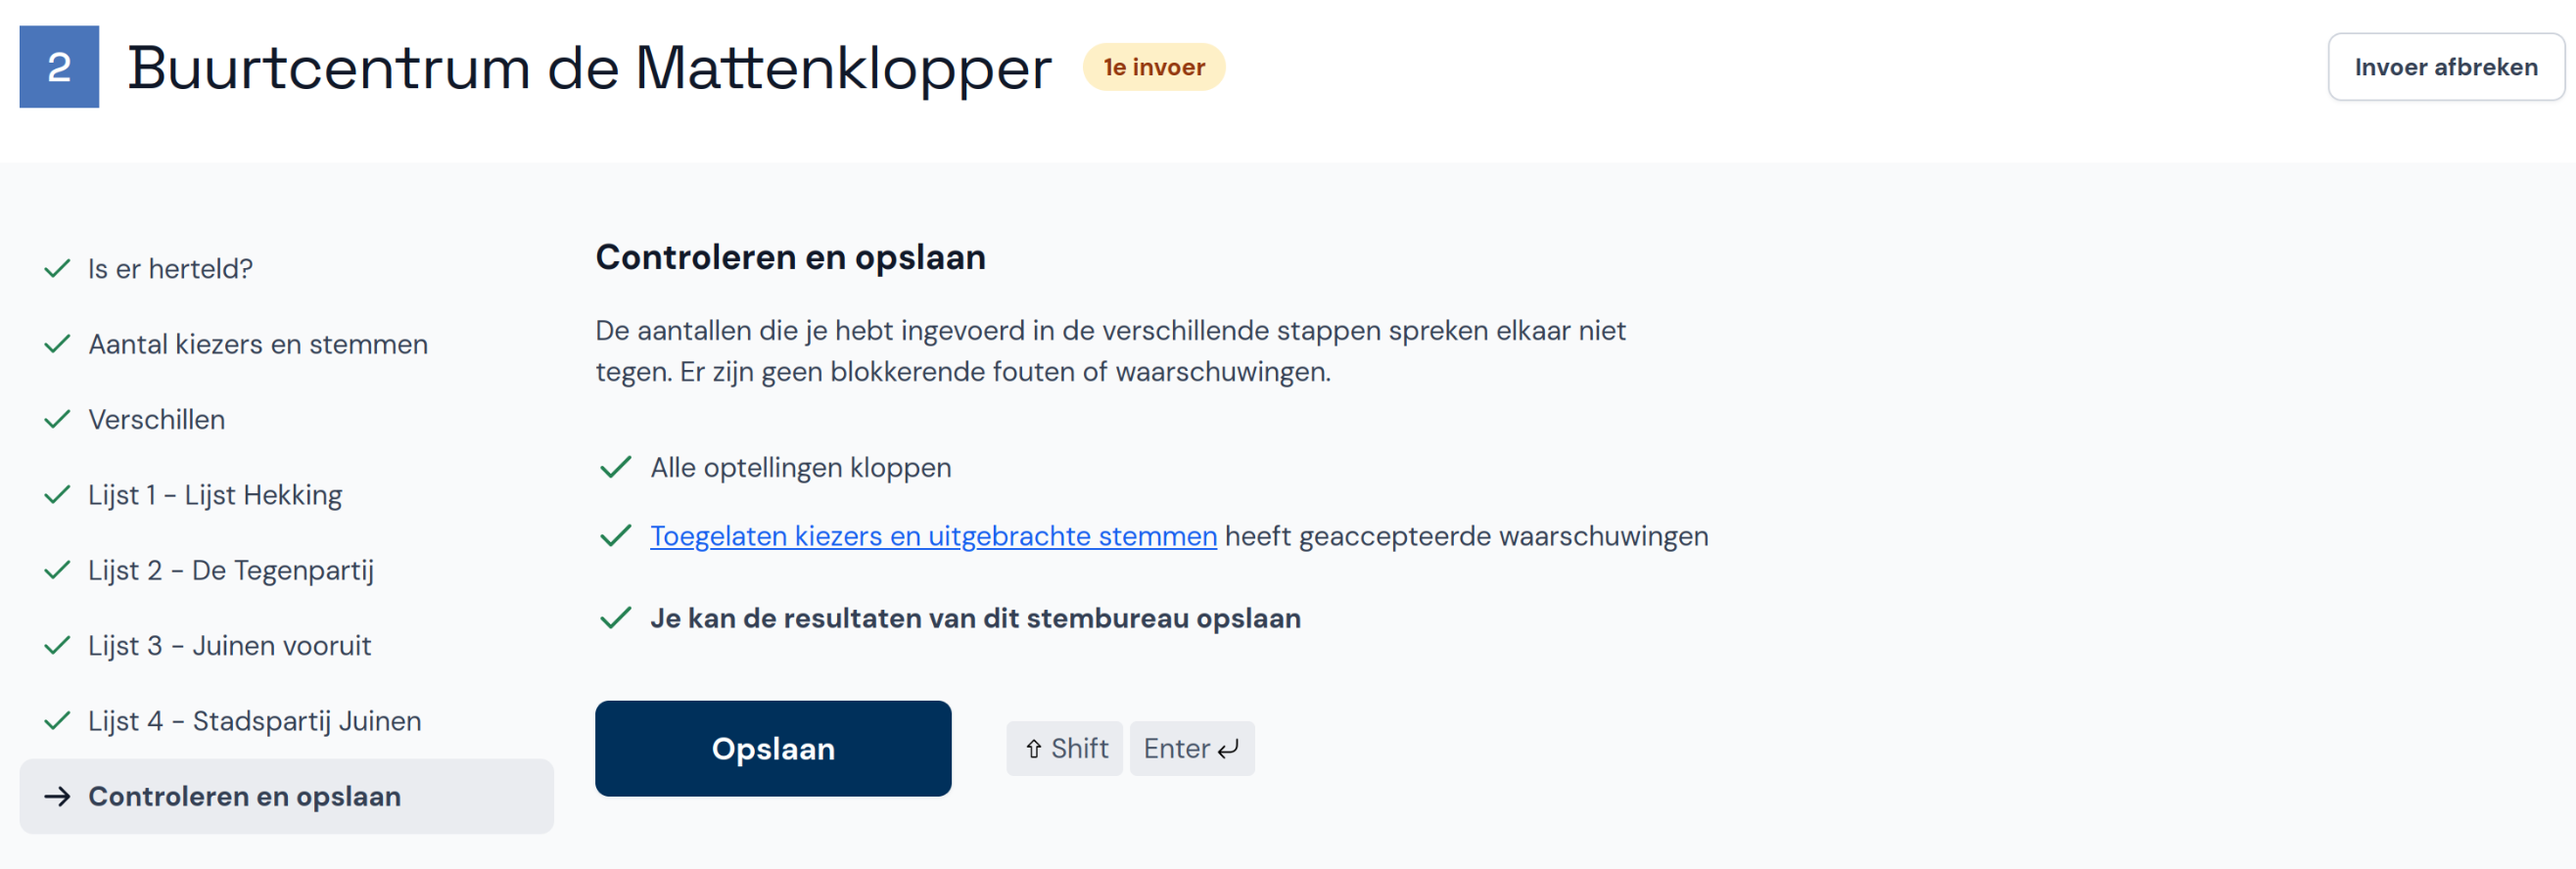
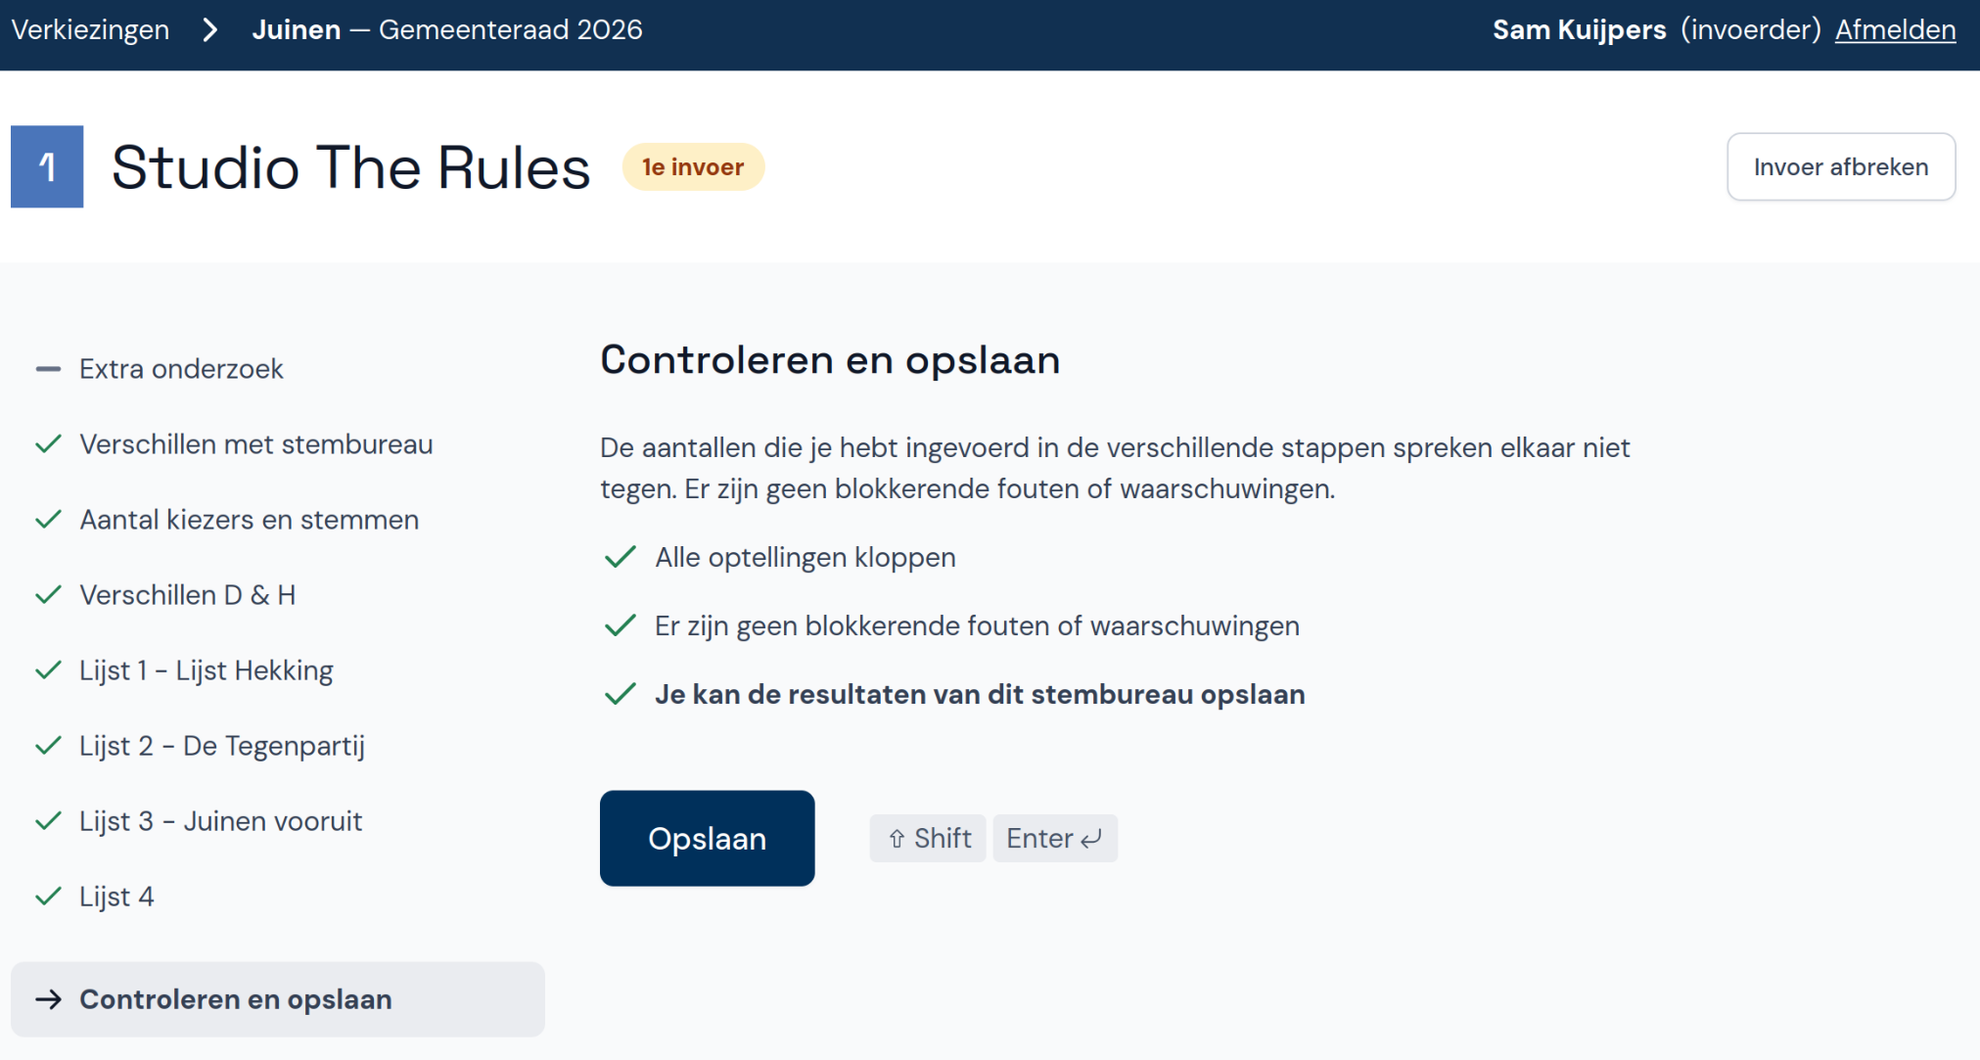
Invoeren: nieuwe modellen en tweede invoer (#12)

diff --git a/src/instructies-invoerder.md b/src/instructies-invoerder.md
@@ -6,101 +6,82 @@ Na het tellen van de stemmen wordt voor elk stembureau een proces-verbaal ingevu
 
 Elk stembureau wordt twee keer ingevoerd (door twee verschillende invoerders). De tweede invoerder krijgt een waarschuwing als diens invoer afwijkt van de eerste invoerder. Ook hier geldt dat je de instructies volgt of overlegt met je coördinator. Na de tweede invoer controleert Abacus of de eerste en tweede invoer overeenkomen. Als alles klopt is de invoer van het betreffende stembureau compleet.
 
-## Inloggen en account instellen
+## 1. Inloggen en account instellen
 
-Je krijgt inloginstructies van je coördinator. Klik rechtsboven op **Inloggen** en vul de gegevens in. Als je al eerder ingelogd hebt, gebruik je het door jou ingestelde wachtwoord.
+Je krijgt inloginstructies van je coördinator. Vul de gegevens in en klik op **Inloggen**. Als je al eerder ingelogd hebt, gebruik je het door jou ingestelde wachtwoord.
 
 Wanneer je voor de eerste keer inlogt, stel je je account eerst in voor gebruik. Voer je naam in als er nog geen naam staat, of wijzig je naam als die onjuist is. Kies vervolgens een nieuw wachtwoord en vul dit twee keer in.
 
 ![Account instellen](./img/invoeren-account-instellen.png)
 
-## Invoeren
+## 2. Stembureau invoeren
 
-Nu je bent ingelogd, ben je klaar om de resultaten van een stembureau in te voeren.
+In de volgende stappen lees je hoe je een stembureau invoert. Gebruik hierbij de [cheatsheet](cheatsheet.md) met daarin de volgende informatie:
 
-### Navigeren en pauzeren
+- [Hoe je kunt invoeren en welke sneltoetsen je gebruikt](cheatsheet.md#invoeren-en-sneltoetsen)
+- [Wat je moet doen bij waarschuwingen en fouten](cheatsheet.md#waarschuwingen-en-fouten)
+- [Hoe je een tweede invoer afrondt](cheatsheet.md#tweede-invoer)
+- [Hoe je de invoer kunt pauzeren of onderbreken](cheatsheet.md#pauzeren-of-onderbreken)
 
-Je kunt in Abacus een aantal sneltoetsen gebruiken waarmee je handig naar andere velden nagiveert. Dit zijn de sneltoetsen:
+ **Let op:** je mag het papieren proces-verbaal niet aanpassen, ook niet als je fouten ziet. In dat geval neem je de foute invoer over zoals het op het papier staat.
 
-- Met `tab ↹`, `pijl omlaag ↓` of `enter ⏎` ga je naar het volgende veld.
-- Met `shift ⇧`+`tab ↹` of `pijl omhoog ↑` ga je naar het vorige veld.
-- Met `shift ⇧`+`pijl omlaag ↓` ga je naar het laatste veld op de pagina. Dit is handig als je geen aantallen meer hoeft in te vullen bij kandidaten en direct het totaal wilt invullen.
-- Met `shift ⇧`+`enter ⏎` ga je naar de volgende pagina/lijst.
+### 2.1. Verkiezing en stembureau selecteren
 
-**Let op:** Je hoeft geen nullen in te voeren. Als je een veld leeg laat, wordt dat gezien als een nul. Je kunt direct met `tab ↹` naar het volgende veld gaan.
-
-Als je even pauze wilt, klik dan rechtsboven op **Invoer afbreken** en vervolgens op **Invoer bewaren**. Na je pauze klik je onder **Je hebt nog een openstaande invoer** op het stembureau en kun je doorgaan waar je gebleven was.
-
-### Verkiezing selecteren
-
-Selecteer je eerst de verkiezing waarvoor je stemmen wilt invoeren. Meestal staat er maar één verkiezing in deze lijst. Zie je twee of meer verkiezingen en weet je niet welke je moet kiezen, vraag het dan aan je coördinator. Hier zie je ook wat de status van de verkiezing is.
+Selecteer eerst de verkiezing waarvoor je stemmen wilt invoeren. Hier zie je ook wat de status van de verkiezing is.
 
 ![Verkiezing selecteren](./img/invoeren-verkiezing-selecteren.png)
 
-### Stembureau invoeren of selecteren
+Selecteer nu het stembureau:
 
-Voer vervolgens het nummer in van het stembureau dat je wilt invoeren. Het nummer vind je op het proces-verbaal. Weet je het nummer niet, klik dan onderaan de pagina op **Bekijk de lijst met alle stembureaus** en kies vervolgens het juiste stembureau op basis van de naam.
+- Voer het nummer in van het stembureau dat je wilt invoeren. Het nummer vind je op het proces-verbaal.
+- Weet je het nummer niet, klik dan onderaan de pagina op **Toon de lijst met nog in te vullen stembureaus** en kies vervolgens het juiste stembureau.
 
-![Stembureaunummer invoeren](./img/invoeren-stembureaunummer-invoeren.png)
+![Stembureau kiezen](./img/invoeren-stembureau-kiezen.png)
 
-![Verkiezing selecteren](./img/invoeren-kies-stembureau.png)
+### 2.2. Extra onderzoek
 
-### Is er herteld?
+Op pagina 1 van het papieren formulier is aangegeven of er extra onderzoek is uitgevoerd.
 
-Geef eerst aan of er op basis van een onverklaard verschil tussen het aantal toegelaten kiezers en het aantal uitgebrachte stemmen een hertelling is geweest. Als dit zo is, kun je op het proces-verbaal zien dat het vakje direct onder de locatie van het stembureau is aangevinkt. Kies vervolgens **Ja, er was een hertelling** of **Nee, er was geen hertelling**.
+Neem de vinkjes over zoals ze in het proces-verbaal staan en klik op **Volgende**.
 
-![Was er een hertelling?](./img/invoeren-hertelling-ja-nee.png)
+![Extra onderzoek](./img/invoeren-extra-onderzoek.png)
 
-### Aantal kiezers en stemmen
+Als de vragen op het papier niet zijn ingevuld, dan is er geen extra onderzoek uitgevoerd en kun je direct doorgaan naar de volgende pagina.
 
-Op deze pagina voer je het aantal toegelaten kiezers en uitgebrachte stemmen in. Neem de aantallen over van de velden A tot en met H. Deze velden vind je in rubriek 1 en 2 op het proces-verbaal.
+### 2.3. Verschillen met stembureau
 
-**Hertelling:** als je op de vorige pagina hebt aangegeven dat er een hertelling is geweest, neem je ook de cijfers over van de velden A.2 tot en met D.2. Deze velden vind je in rubriek 3 op het proces-verbaal.
+Op pagina 2 van het papieren formulier is aangegeven of er verschillen zijn met de telresultaten van het stembureau.
 
-Nadat je de velden hebt ingevuld, klik je op **Volgende**.
+Neem de vinkjes over zoals ze in het proces-verbaal staan en klik op **Volgende**.
 
-**Let op:** Het is mogelijk dat je nu een of meerdere waarschuwingen ziet omdat er een onverwachte afwijking is. Controleer dan of je het papieren proces-verbaal goed hebt overgenomen. Als alles klopt, vink je de optie **Ik heb de aantallen gecontroleerd met het papier en correct overgenomen** aan en klik je nogmaals op **Volgende**.
+![Verschillen met stembureau](./img/invoeren-verschillen-stembureau.png)
 
-![Waarschuwingen bij Toegelaten kiezers en uitgebrachte stemmen](./img/invoeren-kiezers-stemmen-waarschuwingen.png)
+### 2.4. Aantal kiezers en stemmen
 
-### Verschillen
+Nu voer je de toegelaten kiezers en uitgebrachte stemmen in. Dit zijn de velden A tot en met H in rubriek B1 - 3.1 en 3.2 op pagina 4 en 5 van het papieren formulier.
 
-In rubriek 3 op het procesverbaal is aangegeven of er verschillen zijn tussen het aantal toegelaten kiezers en het aantal uitgebrachte stemmen, en wat de verklaringen hiervoor zijn. Neem de aantallen uit het proces-verbaal over in de velden I tot en met O.
+Neem de cijfers over zoals ze in het proces-verbaal staan en klik op **Volgende**.
 
-**Let op:** op het proces-verbaal zijn deze velden niet voorzien van letters. Kijk dus goed of je de cijfers juist overneemt.
+![Toegelaten kiezers en uitgebrachte stemmen](./img/invoeren-kiezers-stemmen.png)
 
-![Verschillen tussen toegelaten kiezers en uitgebrachte stemmen](./img/invoeren-verschillen.png)
+### 2.5. Verschillen D & H
 
-### Lijsten
+Op pagina 6 van het papieren formulier is aangegeven of er verschillen zijn tussen het aantal kiezers en het aantal uitgebrachte stemmen.
 
-Nu ga je invoeren hoeveel stemmen zijn geteld voor elke kandidaat op elke lijst.
+Neem de vinkjes en cijfers over zoals ze in het proces-verbaal staan en klik op **Volgende**.
 
-Neem de cijfers over zoals ze in het proces-verbaal staan. Lege velden en velden met een nul op het proces-verbaal kun je ook leeglaten in Abacus.
+![Verschillen tussen toegelaten kiezers en uitgebrachte stemmen](./img/invoeren-verschillen-dh.png)
 
-**Let op:** Op het proces-verbaal staan ook velden voor het subtotaal van elke kolom. Deze kun je negeren.
+### 2.6. Lijsten
 
-Als je bij de kandidaten alle aantallen hebt ingevuld en je tot het totaal alleen maar lege velden ziet, ga je met `shift ⇧`+`pijl omlaag ↓` direct naar het invoerveld voor het totaal.
-
-Als je klaar bent met het invoeren van de lijst, klik je op **Volgende** of druk je op `shift ⇧`+`enter ⏎` om naar de volgende lijst te gaan.
-
-**Let op:** Er kan een foutmelding worden weergegeven als de aantallen niet met elkaar kloppen. Controleer of je de aantallen goed hebt overgenomen. Als de aantallen overeenkomen met het proces-verbaal en je de fout nog steeds ziet, overleg dan met je coördinator.
+Nu ga je invoeren hoeveel stemmen zijn geteld voor elke kandidaat op elke lijst. Neem de cijfers over zoals ze in het proces-verbaal staan. Hierbij gebruik je de sneltoetsen en instructies in de [cheatsheet](cheatsheet.md#invoeren-en-sneltoetsen).
 
 ![Lijst invoeren](./img/invoeren-lijst.png)
 
-### Controleren en opslaan
+### 2.7. Controleren en opslaan
 
-Wanneer je de laatste lijst hebt ingevoerd, klik je op **Volgende**. De invoer wordt nu gecontroleerd en je ziet of er geaccepteerde waarschuwingen zijn. Klik nu op **Opslaan**.
-
-Als je nog een stembureau wilt invoeren, kun je direct een ander stembureaunummer invullen of een stembureau uit de lijst kiezen.
+Wanneer je de laatste lijst hebt ingevoerd, klik je op **Volgende**. De invoer wordt nu gecontroleerd en je ziet of er waarschuwingen zijn. Klik nu op **Opslaan**.
 
 ![Controleren en opslaan](./img/invoeren-controleren-opslaan.png)
 
-## Invoer afbreken
-
-Het kan zijn dat je even pauze wilt nemen of de invoer om een andere reden wilt onderbreken. Je kunt ook de invoer weggooien om eventueel opnieuw te beginnen.
-
-Klik op **Invoer afbreken**. In een popup wordt gevraagd of je de invoer wilt bewaren. Als je later wilt doorgaan met invoeren, klik je op **Invoer bewaren**. Wil je de invoer weggooien, klik dan op **Niet bewaren**.
-
-## Vragen
-
-Voor alle problemen en vragen die je hebt kun je bij je coördinator terecht.
+Als je nog een stembureau wilt invoeren, kun je direct een ander stembureaunummer invullen of een stembureau uit de lijst kiezen.

diff --git a/src/cheatsheet.md b/src/cheatsheet.md
@@ -9,16 +9,33 @@ Met het toetsenbord kun je snel door de pagina's heen nagiveren. Hiervoor gebrui
 - Met `tab ↹`, `pijl omlaag ↓` of `enter ⏎` ga je naar het volgende veld.
 - Met `shift ⇧`+`tab ↹` of `pijl omhoog ↑` ga je naar het vorige veld.
 - Met `shift ⇧`+`pijl omlaag ↓` ga je naar het laatste veld op de pagina. Dit is handig als je geen aantallen meer hoeft in te vullen bij kandidaten en direct het totaal wilt invullen.
-- Met `shift ⇧`+`enter ⏎` ga je naar de volgende pagina/lijst.
+- Met de knop **Volgende** of met `shift ⇧`+`enter ⏎` ga je naar de volgende pagina/lijst.
 
-**Let op:** Je hoeft geen nullen in te voeren. Als je een veld leeg laat, wordt dat gezien als een nul. Je kunt direct met `tab ↹` naar het volgende veld gaan.
+Tips:
+
+- Je hoeft geen nullen in te voeren. Als je een veld leeg laat, wordt dat gezien als een nul. Je kunt direct met `tab ↹` naar het volgende veld gaan.
+- Op het proces-verbaal staan ook velden voor het subtotaal van elke kolom. Deze kun je negeren.
 
 ## Waarschuwingen en fouten
 
 Bij waarschuwingen en fouten doe je het volgende:
 
-- Als je een fout of waarschuwing tegenkomt, controleer je of je het papieren proces-verbaal goed hebt overgenomen. Abacus laat duidelijk zien welke velden je extra moet controleren. Als alles klopt, vink je de optie **Ik heb mijn invoer gecontroleerd met het papier en correct overgenomen** aan en kun je doorgaan naar de volgende pagina.
+- Controleer of je het papieren proces-verbaal goed hebt overgenomen en herstel eventueel je invoer. Abacus laat duidelijk zien welke velden je extra moet controleren. **Let op:** je mag het papieren proces-verbaal niet aanpassen, ook niet als je fouten ziet. In dat geval neem je de foute invoer over zoals het op het papier staat.
+- Als alles klopt, vink je de optie **Ik heb mijn invoer gecontroleerd met het papier en correct overgenomen** aan en kun je doorgaan naar de volgende pagina.
 - In het algemeen geldt: als je niet zeker weet wat je moet doen, overleg dan met je coördinator.
+
+![Fouten en waarschuwingen](./img/invoeren-fouten-waarschuwingen.png)
+
+## Tweede invoer
+
+Bij een tweede invoer zie je mogelijk extra waarschuwingen als jouw invoer verschilt met de eerste invoer. Deze los je ook op volgens de instructies bij [Waarschuwingen en fouten](#waarschuwingen-en-fouten).
+
+![Tweede invoer extra controle](./img/invoeren-2e-invoer-extra-controle.png)
+
+Aan het einde van de invoer zie je de waarschuwingen en fouten nog een keer. Bespreek eerst de fouten met de coördinator.
+Als alles klopt zet je een vinkje bij **Ik heb de fouten besproken met de coördinator** en klik je op **Afronden**.
+
+![Tweede invoer controleren en opslaan](./img/invoeren-2e-invoer-controleren-opslaan.png)
 
 ## Pauzeren of onderbreken
 
